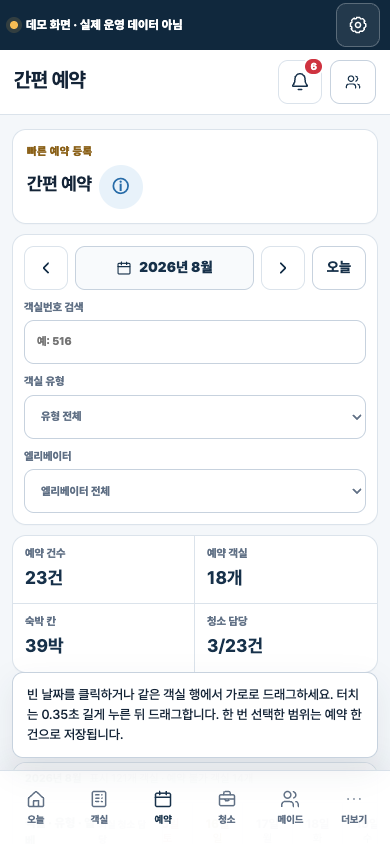
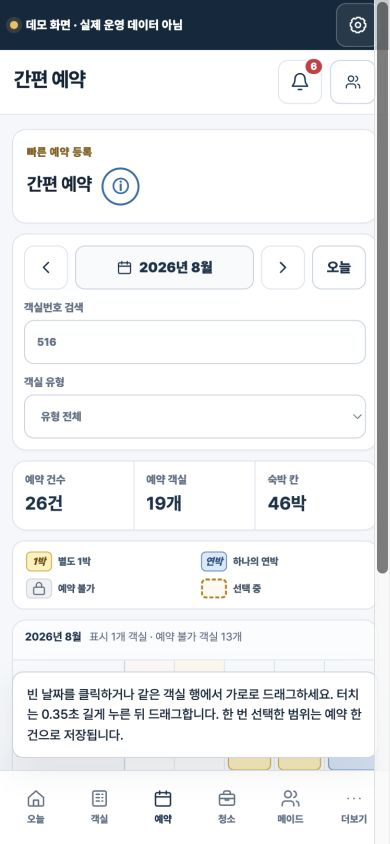
feat: 간편 예약 객실 열을 간소화하라

diff --git a/WIREFRAME/index.html b/WIREFRAME/index.html
@@ -1381,12 +1381,12 @@
     .quick-booking-hero p { margin:0; color:var(--muted); font-size:13px; }
     .quick-booking-boundary { flex:0 0 auto; max-width:330px; padding:10px 12px; border:1px solid #c9ddec; border-radius:10px; color:#375b7a; background:var(--blue-soft); font-size:12px; line-height:1.5; }
     .quick-booking-boundary strong { display:block; color:#244966; }
-    .quick-booking-toolbar { display:grid; grid-template-columns:auto minmax(180px,.8fr) minmax(170px,.6fr) minmax(170px,.6fr); gap:10px; align-items:end; padding:14px; }
+    .quick-booking-toolbar { display:grid; grid-template-columns:auto minmax(180px,.8fr) minmax(170px,.6fr); gap:10px; align-items:end; padding:14px; }
     .quick-month-tools { display:flex; align-items:center; gap:7px; }
     .quick-month-label { display:flex; align-items:center; justify-content:center; gap:7px; min-width:150px; min-height:44px; padding:8px 12px; border:1px solid var(--line-strong); border-radius:10px; background:var(--surface-soft); color:var(--navy); font-weight:850; white-space:nowrap; }
     .quick-toolbar-field { display:grid; min-width:0; gap:4px; color:var(--muted); font-size:11px; font-weight:800; }
     .quick-toolbar-field .input-control, .quick-toolbar-field .select-control { width:100%; }
-    .quick-booking-summary { display:grid; grid-template-columns:repeat(4,minmax(0,1fr)); overflow:hidden; }
+    .quick-booking-summary { display:grid; grid-template-columns:repeat(3,minmax(0,1fr)); overflow:hidden; }
     .quick-booking-summary > div { min-height:76px; padding:12px 15px; border-right:1px solid var(--line); }
     .quick-booking-summary > div:last-child { border-right:0; }
     .quick-booking-summary span { display:block; color:var(--muted); font-size:11px; font-weight:750; }
@@ -1407,7 +1407,7 @@
     .quick-grid-status strong { color:var(--navy); }
     .quick-grid-status .quick-status-spacer { flex:1; }
     .quick-grid-scroller { position:relative; max-width:100%; max-height:calc(100vh - 330px); min-height:430px; overflow:auto; overscroll-behavior:contain; scrollbar-gutter:stable; background:#fff; }
-    .quick-grid { --quick-room-col:260px; --quick-day-col:58px; width:max-content; min-width:100%; background:#fff; }
+    .quick-grid { --quick-room-col:200px; --quick-day-col:58px; width:max-content; min-width:100%; background:#fff; }
     .quick-grid-row { display:grid; grid-template-columns:var(--quick-room-col) repeat(var(--quick-days),var(--quick-day-col)); min-width:max-content; }
     .quick-grid-header { position:sticky; top:0; z-index:30; min-height:58px; }
     .quick-room-header, .quick-room-info { position:sticky; left:0; z-index:14; border-right:1px solid var(--line-strong); border-bottom:1px solid var(--line); background:#f8fafc; }
@@ -1419,15 +1419,18 @@
     .quick-day-header.today { box-shadow:inset 0 -3px 0 #c38a29; color:#7b5209; background:#fff9eb; }
     .quick-grid-data-row { min-height:58px; }
     .quick-grid-data-row:hover .quick-room-info, .quick-grid-data-row:hover .quick-date-cell:not(.is-reserved):not(.is-locked) { background:#fbfdff; }
-    .quick-room-info { display:grid; grid-template-columns:58px minmax(0,1fr); gap:8px; align-items:center; min-height:58px; padding:7px 10px; }
-    .quick-room-number { color:var(--navy); font-size:15px; font-weight:900; }
+    .quick-room-info { min-height:58px; padding:0; }
+    .quick-room-link { display:grid; grid-template-columns:54px minmax(0,1fr); gap:7px; align-items:center; width:100%; min-height:58px; padding:6px 9px; border:0; border-radius:0; color:inherit; background:transparent; font:inherit; text-align:left; touch-action:pan-y; cursor:pointer; }
+    .quick-room-link:hover { background:#edf5fb; }
+    .quick-room-link:focus-visible { position:relative; z-index:2; outline:3px solid #2477b7; outline-offset:-3px; }
+    .quick-room-number { color:#1d5f91; font-size:15px; font-weight:900; text-decoration:underline; text-decoration-thickness:1px; text-underline-offset:3px; }
     .quick-room-copy { min-width:0; }
     .quick-room-copy strong { display:block; overflow:hidden; color:#34485e; font-size:11px; line-height:1.3; text-overflow:ellipsis; white-space:nowrap; }
     .quick-room-copy span { display:block; margin-top:2px; overflow:hidden; color:var(--muted); font-size:10px; line-height:1.3; text-overflow:ellipsis; white-space:nowrap; }
-    .quick-room-cleaner { color:#2f6c58 !important; font-weight:800; }
-    .quick-room-cleaner.unassigned { color:#8a5c13 !important; }
+    .quick-room-block { color:#8a343a !important; font-weight:800; }
     .quick-room-info.row-locked { background:#f1f3f5; }
     .quick-room-info.row-locked .quick-room-number { color:#6c7784; }
+    .quick-room-info.row-locked .quick-room-link:hover { background:#e6eaee; }
     .quick-date-cell { position:relative; display:grid; place-items:center; min-width:var(--quick-day-col); min-height:58px; padding:0; overflow:visible; border:0; border-right:1px solid #e4e9ef; border-bottom:1px solid #e4e9ef; border-radius:0; color:#56687b; background:#fff; font-size:10px; font-weight:900; line-height:1.15; touch-action:pan-y pinch-zoom; user-select:none; -webkit-user-select:none; }
     .quick-date-cell[data-bookable="true"]:hover { background:#f2f7fb; box-shadow:inset 0 0 0 2px #abc8dd; }
     .quick-date-cell:focus-visible { z-index:12; outline:3px solid #2477b7; outline-offset:-3px; }
@@ -1455,7 +1458,7 @@
       .quick-month-tools { grid-column:1/-1; }
       .quick-booking-guide { align-items:flex-start; flex-direction:column; }
       .quick-booking-legend { justify-content:flex-start; }
-      .quick-grid { --quick-room-col:210px; --quick-day-col:56px; }
+      .quick-grid { --quick-room-col:170px; --quick-day-col:56px; }
     }
     @media (max-width:720px) {
       .quick-booking-page { gap:10px; }
@@ -1465,26 +1468,26 @@
       .quick-booking-toolbar { grid-template-columns:1fr; padding:11px; }
       .quick-month-tools { grid-column:auto; }
       .quick-month-label { min-width:0; flex:1; }
-      .quick-booking-summary { grid-template-columns:repeat(2,minmax(0,1fr)); }
-      .quick-booking-summary > div:nth-child(2) { border-right:0; }
-      .quick-booking-summary > div:nth-child(-n+2) { border-bottom:1px solid var(--line); }
+      .quick-booking-summary { grid-template-columns:repeat(3,minmax(0,1fr)); }
       .quick-booking-summary > div { min-height:68px; padding:10px 12px; }
       .quick-booking-guide-copy { min-width:0; }
       .quick-booking-legend { display:grid; grid-template-columns:repeat(2,minmax(0,1fr)); width:100%; }
       .quick-grid-status { align-items:flex-start; flex-wrap:wrap; }
       .quick-grid-status .quick-status-spacer { display:none; }
       .quick-grid-scroller { max-height:calc(100vh - 250px); min-height:480px; }
-      .quick-grid { --quick-room-col:168px; --quick-day-col:52px; }
-      .quick-room-info { grid-template-columns:50px minmax(0,1fr); gap:5px; padding:6px 7px; }
+      .quick-grid { --quick-room-col:132px; --quick-day-col:52px; }
+      .quick-room-link { grid-template-columns:46px minmax(0,1fr); gap:4px; padding:5px 6px; }
       .quick-room-number { font-size:14px; }
       .quick-room-copy strong, .quick-room-copy span { white-space:normal; }
       .quick-room-copy strong { display:-webkit-box; -webkit-box-orient:vertical; -webkit-line-clamp:2; }
-      .quick-room-cleaner { font-size:9px !important; line-height:1.25 !important; white-space:nowrap !important; }
+      .quick-room-block { font-size:9px !important; line-height:1.25 !important; }
       .quick-date-cell, .quick-grid-data-row { min-height:56px; }
     }
     @media (max-width:420px) {
-      .quick-grid { --quick-room-col:150px; --quick-day-col:50px; }
-      .quick-room-info { grid-template-columns:45px minmax(0,1fr); }
+      .quick-grid { --quick-room-col:112px; --quick-day-col:50px; }
+      .quick-room-link { grid-template-columns:40px minmax(0,1fr); gap:3px; padding:4px; }
+      .quick-room-number { font-size:13px; }
+      .quick-room-copy strong { font-size:10px; }
       .quick-booking-hero h2 { font-size:1.12rem; }
       .quick-legend-item { font-size:10px; }
       .bottom-nav button span { font-size:10px; }
@@ -1905,7 +1908,7 @@
           scenario:Number(scenario), role:cfg.role, currentMaidId:'m1', adminView:cfg.role === 'admin' ? cfg.view : 'today', maidView:cfg.role === 'maid' ? cfg.view : 'my',
           detail:null, returnContext:null, demoOpen:false, time:'10:32', network:'online', listMode:'data', loggedIn:true, loginMode:'normal',
           selectedDate:'2026-08-15', calendarMonth:'2026-08', calendarContext:null, reservationWeekStart:'2026-08-10', reservationWeekRoom:null, roomFilter:'all', roomTypeFilter:'all', roomSearch:'', selectedDrafts:[], reservationSaved:false,
-          quickReservationMonth:'2026-08', quickReservationType:'all', quickReservationElevator:'all', quickReservationSearch:'', quickGridScrollLeft:720, quickGridScrollTop:0, quickLastCreated:null,
+          quickReservationMonth:'2026-08', quickReservationType:'all', quickReservationSearch:'', quickGridScrollLeft:700, quickGridScrollTop:0, quickLastCreated:null,
           reservationSequence:INITIAL_RESERVATIONS.length, reservations:initialReservationState(),
           publications:{}, cancelRequests:{},
           todaySections:{schedule:true,assignment:true,drafts:false,inspection:false,pay:false}, cleaningTab:'assignment', assignmentTypeFilter:'all', adminMaidTab:'workforce', adminPayWeek:'2026-08-03', workHistoryWeek:'2026-08-10', workHistoryMaid:'all',
@@ -2184,7 +2187,7 @@
           scenario:Number(state.scenario),role:state.role,currentMaidId:signedInMaidId(),view:currentView(),
           detail:state.detail?{type:String(state.detail.type),id:String(state.detail.id),...(state.detail.mode?{mode:String(state.detail.mode)}:{})}:null,
           date:state.selectedDate,filter:state.roomFilter,typeFilter:state.roomTypeFilter,q:state.roomSearch,
-          quickMonth:state.quickReservationMonth,quickType:state.quickReservationType,quickElevator:state.quickReservationElevator,quickQ:state.quickReservationSearch,quickGridLeft:state.quickGridScrollLeft,quickGridTop:state.quickGridScrollTop,
+          quickMonth:state.quickReservationMonth,quickType:state.quickReservationType,quickQ:state.quickReservationSearch,quickGridLeft:state.quickGridScrollLeft,quickGridTop:state.quickGridScrollTop,
           reservationWeekStart:state.reservationWeekStart,reservationWeekRoom:state.reservationWeekRoom,
           scrollY:Math.max(0,Math.round(Number(scrollY)||0)),loggedIn:state.loggedIn!==false,
           adminMaidTab:state.adminMaidTab,workHistoryWeek:state.workHistoryWeek,workHistoryMaid:state.workHistoryMaid,calendarContext:state.calendarContext,calendarMonth:state.calendarMonth,cleaningTab:state.cleaningTab,assignmentTypeFilter:state.assignmentTypeFilter,adminPayWeek:state.adminPayWeek,
@@ -2197,7 +2200,6 @@
         if(route.assignmentTypeFilter&&route.assignmentTypeFilter!=='all')params.set('assignmentType',route.assignmentTypeFilter);
         if(route.quickMonth&&route.quickMonth!=='2026-08')params.set('bookingMonth',route.quickMonth);
         if(route.quickType&&route.quickType!=='all')params.set('bookingType',route.quickType);
-        if(route.quickElevator&&route.quickElevator!=='all')params.set('bookingElevator',route.quickElevator);
         if(route.quickQ)params.set('bookingQ',route.quickQ);
         if(route.detail){params.set('detail',`${route.detail.type}:${route.detail.id}`);if(route.detail.mode)params.set('mode',route.detail.mode);}
         return `${location.pathname}${location.search}#${params.toString()}`;
@@ -2298,7 +2300,6 @@
         if(/^\d{0,6}$/.test(route.q||''))state.roomSearch=route.q||'';
         if(/^\d{4}-(0[1-9]|1[0-2])$/.test(route.quickMonth||''))state.quickReservationMonth=route.quickMonth;
         if(['all',...Object.keys(ROOM_TYPES)].includes(route.quickType))state.quickReservationType=route.quickType;
-        if(['all','A','B','C','none'].includes(route.quickElevator))state.quickReservationElevator=route.quickElevator;
         if(/^\d{0,6}$/.test(route.quickQ||''))state.quickReservationSearch=route.quickQ||'';
         state.quickGridScrollLeft=Math.max(0,Number(route.quickGridLeft)||0);state.quickGridScrollTop=Math.max(0,Number(route.quickGridTop)||0);
         if(/^\d{4}-\d{2}-\d{2}$/.test(route.reservationWeekStart||''))state.reservationWeekStart=weekStartIso(route.reservationWeekStart);
@@ -3487,8 +3488,8 @@
         return reservation.status==='active'&&reservation.checkInAt<next&&reservation.checkOutAt>start;
       }
       function quickFilteredRooms() {
-        const query=state.quickReservationSearch.trim(),elevator=state.quickReservationElevator;
-        return ROOMS.filter(room=>!query||room.no.includes(query)).filter(room=>state.quickReservationType==='all'||room.type===state.quickReservationType).filter(room=>elevator==='all'||(elevator==='none'?!room.elevator:room.elevator===elevator));
+        const query=state.quickReservationSearch.trim();
+        return ROOMS.filter(room=>!query||room.no.includes(query)).filter(room=>state.quickReservationType==='all'||room.type===state.quickReservationType);
       }
       function quickRoomBlockReason(room) {
         if(!room)return '객실 정보 없음';
@@ -3514,13 +3515,6 @@
         if(!maidId)return {name:'청소 미배정',status:'미배정',maidId:null,assigned:false};
         const status=record.status==='notified'?'통보 완료':record.status==='draft'?'저장 전':record.status==='cancelled'?'취소됨':'배정됨';
         return {name:maidName(maidId),status,maidId,assigned:record.status!=='cancelled'};
-      }
-      function quickRoomCleaner(roomNo,month=state.quickReservationMonth) {
-        const reservations=activeReservationsFor(state,roomNo).filter(item=>reservationInMonth(item,month));
-        const assigned=reservations.map(item=>cleaningAssignmentForReservation(item)).find(item=>item.assigned);
-        if(assigned)return {label:`청소 ${assigned.name} · ${assigned.status}`,assigned:true};
-        if(reservations.length)return {label:'청소 미배정',assigned:false};
-        return {label:'퇴실 청소 일정 없음',assigned:null};
       }
       function quickBookingTimes(firstNight,lastNight) {
         const ordered=[firstNight,lastNight].sort();
@@ -3722,21 +3716,21 @@
         return {reservation,impact,reason,cleaningEffect};
       }
       function quickCellMarkup(room,iso,rowIndex,dayIndex) {
-        const reservation=reservationForNight(room.no,iso),rowReason=quickRoomBlockReason(room),occupiedReason=quickOccupiedDateBlockReason(room,iso),defaultRange=quickBookingTimes(iso,iso),timeConflict=!reservation?reservationOverlaps(room.no,defaultRange.checkInAt,defaultRange.checkOutAt):null,cellReason=rowReason||occupiedReason||(timeConflict?`기존 예약 시각 겹침 · ${quickRangeLabel(timeConflict)}`:''),type=ROOM_TYPES[room.type],elevator=elevatorLabel(room),cleaner=reservation?cleaningAssignmentForReservation(reservation):null,dayOffset=reservation?Math.round((dateObject(iso)-dateObject(reservation.checkInAt.slice(0,10)))/86400000):0,nights=reservationNights(reservation),start=reservation&&dayOffset===0,end=reservation&&dayOffset===nights-1;
+        const reservation=reservationForNight(room.no,iso),rowReason=quickRoomBlockReason(room),occupiedReason=quickOccupiedDateBlockReason(room,iso),defaultRange=quickBookingTimes(iso,iso),timeConflict=!reservation?reservationOverlaps(room.no,defaultRange.checkInAt,defaultRange.checkOutAt):null,cellReason=rowReason||occupiedReason||(timeConflict?`기존 예약 시각 겹침 · ${quickRangeLabel(timeConflict)}`:''),type=ROOM_TYPES[room.type],elevator=elevatorLabel(room),focusDate=state.selectedDate.slice(0,7)===state.quickReservationMonth?state.selectedDate:`${state.quickReservationMonth}-01`,dayOffset=reservation?Math.round((dateObject(iso)-dateObject(reservation.checkInAt.slice(0,10)))/86400000):0,nights=reservationNights(reservation),start=reservation&&dayOffset===0,end=reservation&&dayOffset===nights-1;
         if(reservation){
-          const label=nights===1?'1박':start?`연박 ${nights}박`:'',assignment=cleaner.assigned?`${cleaner.name} · ${cleaner.status}`:'청소 미배정',aria=`${room.no}호, ${type.name}, ${elevator}, ${quickDateLabel(iso)}, ${nights===1?'1박 예약':`연박 ${nights}박`}, ${quickRangeLabel(reservation)}, ${assignment}`;
-          return `<button class="quick-date-cell is-reserved ${nights===1?'is-single':'is-multi'} ${start?'is-start':''} ${end?'is-end':''}" type="button" role="gridcell" tabindex="${rowIndex===0&&dayIndex===0?'0':'-1'}" data-action="quick-reservation-edit" data-id="${esc(reservation.id)}" data-room="${room.no}" data-date="${iso}" aria-label="${esc(aria)}" title="${esc(`${quickRangeLabel(reservation)} · ${assignment}`)}"><span class="quick-cell-label">${esc(label)}</span></button>`;
+          const label=nights===1?'1박':start?`연박 ${nights}박`:'',aria=`${room.no}호, ${type.name}, ${elevator}, ${quickDateLabel(iso)}, ${nights===1?'1박 예약':`연박 ${nights}박`}, ${quickRangeLabel(reservation)}`;
+          return `<button class="quick-date-cell is-reserved ${nights===1?'is-single':'is-multi'} ${start?'is-start':''} ${end?'is-end':''}" type="button" role="gridcell" tabindex="${rowIndex===0&&iso===focusDate?'0':'-1'}" data-action="quick-reservation-edit" data-id="${esc(reservation.id)}" data-room="${room.no}" data-date="${iso}" aria-label="${esc(aria)}" title="${esc(quickRangeLabel(reservation))}"><span class="quick-cell-label">${esc(label)}</span></button>`;
         }
-        if(cellReason){const aria=`${room.no}호, ${type.name}, ${elevator}, ${quickDateLabel(iso)}, 예약 불가, ${cellReason}`;return `<button class="quick-date-cell is-locked" type="button" role="gridcell" tabindex="${rowIndex===0&&dayIndex===0?'0':'-1'}" data-room="${room.no}" data-date="${iso}" aria-disabled="true" aria-label="${esc(aria)}" title="${esc(cellReason)}">${icon('lock','icon-sm')}</button>`;}
+        if(cellReason){const aria=`${room.no}호, ${type.name}, ${elevator}, ${quickDateLabel(iso)}, 예약 불가, ${cellReason}`;return `<button class="quick-date-cell is-locked" type="button" role="gridcell" tabindex="${rowIndex===0&&iso===focusDate?'0':'-1'}" data-room="${room.no}" data-date="${iso}" aria-disabled="true" aria-label="${esc(aria)}" title="${esc(cellReason)}">${icon('lock','icon-sm')}</button>`;}
         const aria=`${room.no}호, ${type.name}, ${elevator}, ${quickDateLabel(iso)}, 예약 가능. 마우스는 클릭 또는 드래그, 터치는 길게 누른 뒤 가로 드래그`;
-        return `<button class="quick-date-cell" type="button" role="gridcell" tabindex="${rowIndex===0&&dayIndex===0?'0':'-1'}" data-quick-cell="true" data-bookable="true" data-room="${room.no}" data-date="${iso}" aria-label="${esc(aria)}"></button>`;
+        return `<button class="quick-date-cell" type="button" role="gridcell" tabindex="${rowIndex===0&&iso===focusDate?'0':'-1'}" data-quick-cell="true" data-bookable="true" data-room="${room.no}" data-date="${iso}" aria-label="${esc(aria)}"></button>`;
       }
       function renderQuickReservation() {
-        const dates=quickMonthDates(),rooms=quickFilteredRooms(),monthReservations=activeReservationsFor(state).filter(item=>reservationInMonth(item)),bookedRooms=new Set(monthReservations.map(item=>item.room)),bookedNights=monthReservations.reduce((total,reservation)=>total+dates.filter(date=>reservationContainsNight(reservation,date)).length,0),assignedCount=monthReservations.filter(reservation=>cleaningAssignmentForReservation(reservation).assigned).length,blockedRooms=ROOMS.filter(room=>quickRoomBlockReason(room)).length;
+        const dates=quickMonthDates(),rooms=quickFilteredRooms(),monthReservations=activeReservationsFor(state).filter(item=>reservationInMonth(item)),bookedRooms=new Set(monthReservations.map(item=>item.room)),bookedNights=monthReservations.reduce((total,reservation)=>total+dates.filter(date=>reservationContainsNight(reservation,date)).length,0),blockedRooms=ROOMS.filter(room=>quickRoomBlockReason(room)).length;
         const headers=dates.map(iso=>{const value=dateObject(iso),weekend=[0,6].includes(value.getDay()),today=iso==='2026-08-16';return `<div class="quick-day-header ${weekend?'weekend':''} ${today?'today':''}" role="columnheader" aria-label="${esc(quickDateLabel(iso))}"><strong>${value.getDate()}일</strong><span>${['일','월','화','수','목','금','토'][value.getDay()]}</span></div>`;}).join('');
-        const rows=rooms.map((room,rowIndex)=>{const type=ROOM_TYPES[room.type],cleaner=quickRoomCleaner(room.no),blocked=quickRoomBlockReason(room);return `<div class="quick-grid-row quick-grid-data-row" role="row" aria-rowindex="${rowIndex+2}" data-quick-row="${room.no}"><div class="quick-room-info ${blocked?'row-locked':''}" role="rowheader"><span class="quick-room-number">${room.no}호</span><span class="quick-room-copy"><strong>${esc(type.name)} · ${esc(room.elevator||'미기재')}</strong><span class="quick-room-cleaner ${cleaner.assigned===false?'unassigned':''}">${esc(blocked||cleaner.label)}</span></span></div>${dates.map((iso,dayIndex)=>quickCellMarkup(room,iso,rowIndex,dayIndex)).join('')}</div>`;}).join('');
-        const grid=rooms.length?`<div class="quick-grid" role="grid" aria-label="${esc(quickMonthLabel())} 객실별 간편 예약" aria-rowcount="${rooms.length+1}" aria-colcount="${dates.length+1}" style="--quick-days:${dates.length}"><div class="quick-grid-row quick-grid-header" role="row"><div class="quick-room-header" role="columnheader">객실 · 유형 · 엘베<span>퇴실 청소 담당</span></div>${headers}</div>${rows}</div>`:`<div class="quick-empty-state"><div><h3>조건에 맞는 객실이 없습니다</h3><p>검색어 또는 유형·엘리베이터 필터를 바꿔 주세요.</p></div></div>`;
-        return renderCoach()+renderNetworkNotice()+`<div class="quick-booking-page"><section class="card quick-booking-hero"><div class="quick-booking-hero-copy"><span class="quick-booking-kicker">빠른 예약 입력</span><h2>날짜 범위를 한 번에 드래그해 예약을 접수하세요</h2><p>한 번의 드래그는 예약 한 건입니다. 바로 옆을 다시 드래그해도 합쳐지지 않아 1박·1박·연박을 그대로 구분합니다.</p></div><div class="quick-booking-boundary"><strong>데모 와이어프레임 · 실제 데이터 아님</strong>외부 OTA/PMS 예약 원본은 변경하지 않습니다.</div></section><section class="card quick-booking-toolbar" aria-label="간편 예약 필터"><div class="quick-month-tools"><button class="icon-btn" type="button" data-action="quick-month-shift" data-offset="-1" aria-label="이전 달">${icon('chevronLeft')}</button><div class="quick-month-label">${icon('calendar','icon-sm')}${esc(quickMonthLabel())}</div><button class="icon-btn" type="button" data-action="quick-month-shift" data-offset="1" aria-label="다음 달">${icon('chevronRight')}</button><button class="btn btn-outline" type="button" data-action="quick-month-today">오늘</button></div><label class="quick-toolbar-field">객실번호 검색<input class="input-control" type="search" inputmode="numeric" data-control="quick-reservation-search" value="${esc(state.quickReservationSearch)}" placeholder="예: 516" autocomplete="off"></label><label class="quick-toolbar-field">객실 유형<select class="select-control" data-control="quick-reservation-type"><option value="all">유형 전체</option>${Object.entries(ROOM_TYPES).map(([id,type])=>`<option value="${id}" ${state.quickReservationType===id?'selected':''}>${esc(type.name)}</option>`).join('')}</select></label><label class="quick-toolbar-field">엘리베이터<select class="select-control" data-control="quick-reservation-elevator"><option value="all">엘리베이터 전체</option>${['A','B','C'].map(value=>`<option value="${value}" ${state.quickReservationElevator===value?'selected':''}>${value} 엘리베이터</option>`).join('')}<option value="none" ${state.quickReservationElevator==='none'?'selected':''}>미기재</option></select></label></section><section class="card quick-booking-summary" aria-label="${esc(quickMonthLabel())} 예약 요약"><div><span>예약 건수</span><strong>${monthReservations.length}건</strong><small>각 드래그 1건</small></div><div><span>예약 객실</span><strong>${bookedRooms.size}개</strong><small>전체 ${ROOMS.length}개</small></div><div><span>숙박 칸</span><strong>${bookedNights}박</strong><small>선택한 달 기준</small></div><div><span>청소 담당</span><strong>${assignedCount}/${monthReservations.length}건</strong><small>나머지는 미배정</small></div></section><div class="quick-booking-guide"><div class="quick-booking-guide-copy"><strong>마우스: 클릭·드래그 / 터치: 0.35초 길게 누른 뒤 같은 행에서 가로 드래그</strong>바로 가로 스와이프하면 날짜표만 이동합니다. 세로로 움직이면 선택을 취소하고 화면만 스크롤합니다. 손을 뗄 때 등록되며 10초 동안 실행 취소할 수 있습니다.</div><div class="quick-booking-legend" aria-label="예약 상태 범례"><span class="quick-legend-item"><i class="quick-legend-swatch single">1박</i>별도 1박</span><span class="quick-legend-item"><i class="quick-legend-swatch multi">연박</i>하나의 연박</span><span class="quick-legend-item"><i class="quick-legend-swatch locked">${icon('lock','icon-sm')}</i>예약 불가</span><span class="quick-legend-item"><i class="quick-legend-swatch preview"></i>선택 중</span></div></div><section class="card quick-grid-shell"><div class="quick-grid-status"><strong>${esc(quickMonthLabel())}</strong><span>표시 ${rooms.length}개 객실 · 예약 불가 객실 ${blockedRooms}개</span><span class="quick-status-spacer"></span><span>객실정보 열·날짜 행 고정 · 날짜 영역만 가로 스크롤</span></div><div id="quick-grid-scroller" class="quick-grid-scroller" tabindex="0" aria-label="객실 예약표 스크롤 영역">${grid}</div></section></div>`;
+        const rows=rooms.map((room,rowIndex)=>{const type=ROOM_TYPES[room.type],blocked=quickRoomBlockReason(room);return `<div class="quick-grid-row quick-grid-data-row" role="row" aria-rowindex="${rowIndex+2}" data-quick-row="${room.no}"><div class="quick-room-info ${blocked?'row-locked':''}" role="rowheader"><button class="quick-room-link" type="button" tabindex="${rowIndex===0?'0':'-1'}" data-action="room-detail" data-id="${room.no}" aria-label="${room.no}호 객실 상세 열기"><span class="quick-room-number">${room.no}호</span><span class="quick-room-copy"><strong>${esc(type.name)} · ${esc(room.elevator||'미기재')}</strong>${blocked?`<span class="quick-room-block">${esc(blocked)}</span>`:''}</span></button></div>${dates.map((iso,dayIndex)=>quickCellMarkup(room,iso,rowIndex,dayIndex)).join('')}</div>`;}).join('');
+        const grid=rooms.length?`<div class="quick-grid" role="grid" aria-label="${esc(quickMonthLabel())} 객실별 간편 예약" aria-rowcount="${rooms.length+1}" aria-colcount="${dates.length+1}" style="--quick-days:${dates.length}"><div class="quick-grid-row quick-grid-header" role="row"><div class="quick-room-header" role="columnheader">객실 · 유형 · 엘베</div>${headers}</div>${rows}</div>`:`<div class="quick-empty-state"><div><h3>조건에 맞는 객실이 없습니다</h3><p>검색어 또는 객실 유형 필터를 바꿔 주세요.</p></div></div>`;
+        return renderCoach()+renderNetworkNotice()+`<div class="quick-booking-page"><section class="card quick-booking-hero"><div class="quick-booking-hero-copy"><span class="quick-booking-kicker">빠른 예약 입력</span><h2>날짜 범위를 한 번에 드래그해 예약을 접수하세요</h2><p>한 번의 드래그는 예약 한 건입니다. 바로 옆을 다시 드래그해도 합쳐지지 않아 1박·1박·연박을 그대로 구분합니다.</p></div><div class="quick-booking-boundary"><strong>데모 와이어프레임 · 실제 데이터 아님</strong>외부 OTA/PMS 예약 원본은 변경하지 않습니다.</div></section><section class="card quick-booking-toolbar" aria-label="간편 예약 필터"><div class="quick-month-tools"><button class="icon-btn" type="button" data-action="quick-month-shift" data-offset="-1" aria-label="이전 달">${icon('chevronLeft')}</button><div class="quick-month-label">${icon('calendar','icon-sm')}${esc(quickMonthLabel())}</div><button class="icon-btn" type="button" data-action="quick-month-shift" data-offset="1" aria-label="다음 달">${icon('chevronRight')}</button><button class="btn btn-outline" type="button" data-action="quick-month-today">오늘</button></div><label class="quick-toolbar-field">객실번호 검색<input class="input-control" type="search" inputmode="numeric" data-control="quick-reservation-search" value="${esc(state.quickReservationSearch)}" placeholder="예: 516" autocomplete="off"></label><label class="quick-toolbar-field">객실 유형<select class="select-control" data-control="quick-reservation-type"><option value="all">유형 전체</option>${Object.entries(ROOM_TYPES).map(([id,type])=>`<option value="${id}" ${state.quickReservationType===id?'selected':''}>${esc(type.name)}</option>`).join('')}</select></label></section><section class="card quick-booking-summary" aria-label="${esc(quickMonthLabel())} 예약 요약"><div><span>예약 건수</span><strong>${monthReservations.length}건</strong><small>각 드래그 1건</small></div><div><span>예약 객실</span><strong>${bookedRooms.size}개</strong><small>전체 ${ROOMS.length}개</small></div><div><span>숙박 칸</span><strong>${bookedNights}박</strong><small>선택한 달 기준</small></div></section><div class="quick-booking-guide"><div class="quick-booking-guide-copy"><strong>마우스: 클릭·드래그 / 터치: 0.35초 길게 누른 뒤 같은 행에서 가로 드래그</strong>바로 가로 스와이프하면 날짜표만 이동합니다. 세로로 움직이면 선택을 취소하고 화면만 스크롤합니다. 손을 뗄 때 등록되며 10초 동안 실행 취소할 수 있습니다.</div><div class="quick-booking-legend" aria-label="예약 상태 범례"><span class="quick-legend-item"><i class="quick-legend-swatch single">1박</i>별도 1박</span><span class="quick-legend-item"><i class="quick-legend-swatch multi">연박</i>하나의 연박</span><span class="quick-legend-item"><i class="quick-legend-swatch locked">${icon('lock','icon-sm')}</i>예약 불가</span><span class="quick-legend-item"><i class="quick-legend-swatch preview"></i>선택 중</span></div></div><section class="card quick-grid-shell"><div class="quick-grid-status"><strong>${esc(quickMonthLabel())}</strong><span>표시 ${rooms.length}개 객실 · 예약 불가 객실 ${blockedRooms}개</span><span class="quick-status-spacer"></span><span>객실정보 열·날짜 행 고정 · 날짜 영역만 가로 스크롤</span></div><div id="quick-grid-scroller" class="quick-grid-scroller" tabindex="0" aria-label="객실 예약표 스크롤 영역">${grid}</div></section></div>`;
       }
       function rememberQuickGridViewport() {
         const scroller=document.getElementById('quick-grid-scroller');if(!scroller)return;
@@ -3808,6 +3802,16 @@
       },true);
       document.addEventListener('contextmenu',event=>{if(event.target.closest?.('.quick-date-cell'))event.preventDefault();});
       document.addEventListener('scroll',event=>{if(event.target?.id==='quick-grid-scroller'){state.quickGridScrollLeft=event.target.scrollLeft;state.quickGridScrollTop=event.target.scrollTop;}},true);
+      document.addEventListener('focusin',event=>{
+        const roomLink=event.target.closest?.('.quick-room-link[data-id]');if(!roomLink||state.role!=='admin'||state.adminView!=='quickReservation'||state.detail)return;
+        document.querySelectorAll('.quick-room-link[data-id]').forEach(link=>{link.tabIndex=link===roomLink?0:-1;});
+      });
+      document.addEventListener('keydown',event=>{
+        const roomLink=event.target.closest?.('.quick-room-link[data-id]');if(!roomLink||document.querySelector('.modal')||state.role!=='admin'||state.adminView!=='quickReservation')return;
+        if(!['ArrowUp','ArrowDown','Home','End'].includes(event.key))return;
+        event.preventDefault();const links=[...document.querySelectorAll('.quick-room-link[data-id]')],index=links.indexOf(roomLink),nextIndex=event.key==='Home'?0:event.key==='End'?links.length-1:Math.max(0,Math.min(links.length-1,index+(event.key==='ArrowUp'?-1:1))),target=links[nextIndex];
+        if(!target)return;roomLink.tabIndex=-1;target.tabIndex=0;target.focus({preventScroll:false});
+      });
       document.addEventListener('keydown',event=>{
         const cell=event.target.closest?.('.quick-date-cell[data-room][data-date]');if(!cell||document.querySelector('.modal')||state.role!=='admin'||state.adminView!=='quickReservation')return;
         if(event.key==='Escape'){event.preventDefault();quickKeyboardSelection=null;clearQuickSelectionPreview();document.getElementById('assertive-live').textContent='예약 날짜 선택을 취소했습니다.';return;}
@@ -5388,7 +5392,7 @@
           if(state.role!=='admin')return;rememberQuickGridViewport();state.quickReservationMonth=shiftQuickMonth(state.quickReservationMonth,Number(el.dataset.offset)||0);state.quickGridScrollLeft=0;state.quickGridScrollTop=0;render();requestAnimationFrame(()=>document.querySelector(`[data-action="quick-month-shift"][data-offset="${el.dataset.offset}"]`)?.focus());return;
         }
         if(a==='quick-month-today'){
-          if(state.role!=='admin')return;state.quickReservationMonth='2026-08';state.quickGridScrollLeft=720;state.quickGridScrollTop=0;render();requestAnimationFrame(()=>document.querySelector('[data-action="quick-month-today"]')?.focus());return;
+          if(state.role!=='admin')return;state.quickReservationMonth='2026-08';state.quickGridScrollLeft=700;state.quickGridScrollTop=0;render();requestAnimationFrame(()=>document.querySelector('[data-action="quick-month-today"]')?.focus());return;
         }
         if(a==='quick-reservation-edit'){
           if(state.role!=='admin'){toast('간편 예약 상세는 관리자만 볼 수 있습니다.','error');return;}
@@ -5423,7 +5427,7 @@
         }
         if(a==='back'){maskPin();backFromDetail();return;}
         if(a==='close-modal'||a==='backdrop-close'||a==='calendar-close'||a==='calendar-backdrop'){pendingPin=null;pendingTemplateChange=null;pendingDraftPublish=null;dismissModal();return;}
-        if(a==='room-detail'){maskPin();openDetail('room',id||'350',el);return;}
+        if(a==='room-detail'){maskPin();if(state.adminView==='quickReservation'&&!state.detail)rememberQuickGridViewport();openDetail('room',id||'350',el);return;}
         if(a==='cleaning-detail'){maskPin();openDetail('cleaning',id||'639',el);return;}
         if(a==='maid-detail'){maskPin();openDetail('maid',id||'m1',el);return;}
         if(a==='resolve-conflict-v2'){if(!adminCanMutate()){toast('관리자 최신 상태에서만 충돌을 해결할 수 있습니다.','error');return;}if(activeRecleanAttempt('332')){toast('332호 본인 무급 재청소가 끝난 뒤 충돌 재계획을 진행할 수 있습니다.','error');return;}openConflictResolutionV2(el);return;}
@@ -6019,7 +6023,7 @@
       });
 
       document.addEventListener('change',e=>{
-        const c=e.target.dataset.control;if(!c||!['role','maid-account','scenario','room-filter','room-type-filter','quick-reservation-type','quick-reservation-elevator','maid-pay-filter','work-history-maid','task-check','task-photo-file','task-candle','room-issue-type','room-issue-files','bomb-room-files','complaint-type','conflict-step-v2','maid-deactivation-gate','assignment-maid','reservation-cancel-reason'].includes(c))return;
+        const c=e.target.dataset.control;if(!c||!['role','maid-account','scenario','room-filter','room-type-filter','quick-reservation-type','maid-pay-filter','work-history-maid','task-check','task-photo-file','task-candle','room-issue-type','room-issue-files','bomb-room-files','complaint-type','conflict-step-v2','maid-deactivation-gate','assignment-maid','reservation-cancel-reason'].includes(c))return;
         e.stopImmediatePropagation();
         if(c==='reservation-cancel-reason'){updateReservationCancelReasonControls(true);return;}
         if(c==='role'){maskPin();closeModal();state.role=e.target.value;state.detail=null;render();requestAnimationFrame(()=>document.querySelector('[data-control="role"]')?.focus());return;}
@@ -6028,7 +6032,6 @@
         if(c==='room-filter'){state.roomFilter=e.target.value;render();requestAnimationFrame(()=>document.querySelector('[data-control="room-filter"]')?.focus());return;}
         if(c==='room-type-filter'){state.roomTypeFilter=e.target.value;render();requestAnimationFrame(()=>document.querySelector('[data-control="room-type-filter"]')?.focus());return;}
         if(c==='quick-reservation-type'){rememberQuickGridViewport();state.quickReservationType=e.target.value;state.quickGridScrollTop=0;render();restoreQuickGridViewport('[data-control="quick-reservation-type"]');return;}
-        if(c==='quick-reservation-elevator'){rememberQuickGridViewport();state.quickReservationElevator=e.target.value;state.quickGridScrollTop=0;render();restoreQuickGridViewport('[data-control="quick-reservation-elevator"]');return;}
         if(c==='maid-pay-filter'){state.maidPayFilter=e.target.value;state.maidPaySelectedWeek=null;const visibleIds={all:['2026-08-10','2026-08-03','2026-07-27','2026-07-20','2026-07-13','2026-07-06'],current:['2026-08-10'],last:['2026-08-03'],older:['2026-07-27','2026-07-20','2026-07-13','2026-07-06']}[state.maidPayFilter]||[];if(!visibleIds.includes(state.maidPayOpenWeek))state.maidPayOpenWeek=visibleIds[0]||null;render();requestAnimationFrame(()=>document.querySelector('[data-control="maid-pay-filter"]')?.focus());return;}
         if(c==='work-history-maid'){state.workHistoryMaid=e.target.value;render();requestAnimationFrame(()=>document.querySelector('[data-control="work-history-maid"]')?.focus());return;}
         if(c==='task-check'){const no=e.target.dataset.room,item=e.target.value;if(!maidCanEditCleaning(no)){render();toast('본인 담당 청소 중 작업의 체크만 변경할 수 있습니다.','error');return;}taskState(no).checklist[item]=e.target.checked;render();requestAnimationFrame(()=>document.querySelector(`[data-control="task-check"][data-room="${no}"][value="${item}"]`)?.focus());return;}
@@ -6257,7 +6260,6 @@
         if(/^\d{0,6}$/.test(params.get('q')||''))state.roomSearch=params.get('q')||'';
         if(/^\d{4}-(0[1-9]|1[0-2])$/.test(params.get('bookingMonth')||''))state.quickReservationMonth=params.get('bookingMonth');
         if(['all',...Object.keys(ROOM_TYPES)].includes(params.get('bookingType')))state.quickReservationType=params.get('bookingType');
-        if(['all','A','B','C','none'].includes(params.get('bookingElevator')))state.quickReservationElevator=params.get('bookingElevator');
         if(/^\d{0,6}$/.test(params.get('bookingQ')||''))state.quickReservationSearch=params.get('bookingQ')||'';
         const detailValue=params.get('detail');
         if(detailValue){state.detail=null;const separator=detailValue.indexOf(':'),type=separator>0?detailValue.slice(0,separator):'',id=separator>0?detailValue.slice(separator+1):'';if(detailAllowedForRole(type,state.role)&&id)state.detail={type,id,...(params.get('mode')?{mode:params.get('mode')}:{})};}

diff --git a/WIREFRAME/QA.md b/WIREFRAME/QA.md
@@ -72,7 +72,7 @@
 | 타입 집계 | 통과 | 스탠다드 22, 프리미어 51, 파셜 오션뷰 13, 패밀리 투룸 35개로 `8월` 시트와 일치 |
 | 정본 청소요금 | 통과(대표 화면) | 553호 스탠다드 16,000원 표시와 프리미어 변경 뒤 20,000원 표시를 실제 확인. 파셜 오션뷰·패밀리 투룸과 전체 원장 일치는 정적 계약 범위 |
 | 건물 지도 보완 | 통과(정적·브라우저) | 시트 미기재 11실을 `139·449·553호=C`, `358·359·458·461·559·628·629·762호=B`로 보완하고 목록 카드에서 11실을 모두 대조했다. 지도상 15번과 43번 사이의 끊긴 구간은 연결 동선으로 사용하지 않음 |
-| 엘리베이터 집계 | 통과(정적·브라우저) | 전체 121실이 A 33, B 29, C 59, 미기재 0개이며 호수 끝자리 지도 구역과 일치. 간편 예약 `미기재` 필터 결과도 0실임을 확인. 762호는 B 엘리베이터가 확정됐고 `현재 투숙 상태 확인 필요` dataIssue만 유지 |
+| 엘리베이터 집계 | 통과(정적·브라우저) | 전체 121실이 A 33, B 29, C 59, 미기재 0개이며 호수 끝자리 지도 구역과 일치. 간편 예약 객실 행에서도 보완된 엘리베이터 위치를 확인했다. 762호는 B 엘리베이터가 확정됐고 `현재 투숙 상태 확인 필요` dataIssue만 유지 |
 | 투숙/공실 단순화 | 통과(대표 화면) | 553호는 별도 장기투숙 패널 없이 `투숙 중`과 `지금 체크아웃`, `투숙 중 청소 요청`만 표시했다. 체크아웃 뒤에는 `공실`만 표시함 |
 | 객실 정보 수정 | 통과(대표 화면) | 관리자 목록의 553호 초기값 C와 762호 초기값 B를 확인했다. 762호 수정 폼은 B를 미리 선택하고 객실번호 읽기 전용·타입·엘리베이터 편집·새 작업부터 적용 안내를 유지함 |
 | 762호 dataIssue 해제 | 통과 | 762호 수정 폼에서 현재 투숙 상태를 비워 둔 채 확정하면 상태 선택으로 초점이 이동하며 보류를 유지했다. 공실을 선택해 확정하면 B 엘리베이터는 유지되고 `정보 확인 필요`만 해제되어 `고객 배정 가능` 흐름으로 전환됨 |
@@ -401,29 +401,30 @@
 
 ## 추가 검증 · 간편 예약 원장과 터치 오입력 방지
 
-> 2026-08-16~17 로컬 HTTP에서 인앱 브라우저와 설치된 Chrome의 390px 터치 에뮬레이션으로 확인했다. 객실·예약·담당자·청소 상태는 기능 확인용 데모이며 실제 OTA/PMS 또는 서버 데이터가 아니다. 물리 휴대전화 실기기 검증은 이번 범위에 포함하지 않았다.
+> 2026-08-16~18 로컬 HTTP에서 인앱 브라우저와 설치된 Chrome의 터치 에뮬레이션으로 확인했다. 객실·예약·담당자·청소 상태는 기능 확인용 데모이며 실제 OTA/PMS 또는 서버 데이터가 아니다. 물리 휴대전화 실기기 검증은 이번 범위에 포함하지 않았다.
 
 | 항목 | 결과 | 실제 확인 내용 |
 |---|---|---|
-| 엑셀형 전체 객실표 | 통과 | 관리자 상단 `간편 예약`에서 전체 121개 객실을 세로, 2026년 8월 31일을 가로로 렌더했다. 객실 고정 열에 호수·타입·엘리베이터·청소 담당 상태, 날짜 고정 행에 일자·요일을 표시했다. |
+| 엑셀형 전체 객실표 | 통과 | 관리자 상단 `간편 예약`에서 전체 121개 객실을 세로, 2026년 8월 31일을 가로로 렌더했다. 객실 고정 열에는 호수·타입·엘리베이터, 날짜 고정 행에는 일자·요일을 표시했다. |
 | 별도 1박·한 건의 연박 | 통과 | 516호에서 `1박 / 1박 / 연박 3박 / 1박`이 네 예약 ID로 분리되고, 노란 1박 두 건과 이어진 파란 3박 한 건이 자동 병합되지 않음을 확인했다. |
 | 마우스 빠른 입력 | 통과 | 빈 352호의 8월 17일·18일을 각각 클릭하고 19일–21일을 한 번 드래그했다. 예약은 23→26건, 숙박 칸은 39→44박이 되었고 행에는 `1박 / 1박 / 연박 3박`, 객실 카드에는 `예약 3건`이 표시됐다. |
 | 카드 → 예약표 | 통과 | 454호 카드의 `예약 등록`에서 8월 15일 16:00–16일 11:00 한 건을 접수하자 카드가 `예약 1건`으로 바뀌고 간편 예약표 15일 칸이 즉시 `1박 예약`으로 전환됐다. |
 | 기존 예약·잠금 | 통과 | 예약 셀을 눌렀을 때 새 예약이 생기지 않고 해당 예약 ID의 상세·변경 모달이 열렸다. 762호는 모든 날짜가 `aria-disabled="true"`이고 `확인 필요 · 예약 불가` 이유와 자물쇠를 표시했다. |
-| 청소 담당 표시 | 통과 | 350호 예약의 행과 예약 셀 모두 `김민지1 · 통보 완료`를 표시했다. 새 예약은 담당자를 임의 선택하지 않고 `청소 미배정`과 `예약 후 청소 자동 연결` 상태를 표시했다. |
-| 다중 체크아웃·청소 재통보 | 통과 | 135호에 연속된 별도 1박 두 건을 만들자 각 퇴실일의 전날 배정 대상이 유지됐다. 기존 직접등록 대상과 합쳐진 352호 예약도 박소영 통보 상태를 카드·표에 역표시했고, 체크아웃 11:00→12:00 변경 뒤 `저장 전`·`변경 1건 저장·통보`로 전환됐다. |
+| 청소 담당 표시 제거 | 통과 | 간편 예약의 객실 열·예약 셀·월 요약에서 담당자·통보·청소 미배정 문구가 0건임을 확인했다. 잠긴 객실의 예약 불가 사유는 유지하고 담당 상태는 객실 기록과 청소 화면에서 확인했다. |
+| 엘리베이터 필터 제거 | 통과 | 간편 예약 필터는 객실번호 검색과 객실 유형만 표시했다. 예전 `bookingElevator=A` 주소도 숨은 필터 없이 121개 객실로 정상화되고 매개변수가 URL에서 제거됐다. 행의 `스탠다드 · C` 같은 엘리베이터 기준정보는 유지했다. |
+| 다중 체크아웃·청소 재통보 | 통과 | 135호에 연속된 별도 1박 두 건을 만들자 각 퇴실일의 전날 배정 대상이 유지됐다. 기존 직접등록 대상과 합쳐진 352호 예약도 청소 화면에서 박소영 통보 상태를 유지했고, 체크아웃 11:00→12:00 변경 뒤 `저장 전`·`변경 1건 저장·통보`로 전환됐다. |
 | 미래 예약과 현재 객실 상태 분리 | 통과 | 현재 `고객 배정 가능 · 청소 작업 없음`인 136호에 8월 30일 예약을 접수해도 현재 카드 상태는 그대로 유지하고 미래 퇴실 청소 초안만 연결했다. |
 | 짧은 터치 탭 | 통과 | 390px 터치 환경에서 빈 352호 날짜를 짧게 탭한 뒤 전체 예약 건수가 23건으로 유지됐다. 단순 탭은 새 예약을 접수하지 않았다. |
-| 모바일 초기 날짜 노출 | 통과 | 390px에서 날짜표 초기 `scrollLeft=720px`일 때 350호 8월 16일 셀은 x=193–243px, 고정 객실 정보 열의 오른쪽은 x=163px였다. 예약 셀 전체가 고정 열 밖에 노출돼 첫 탭으로 상세를 열 수 있었다. |
-| 세로 터치 스크롤 | 통과 | 121개 객실표의 빈 날짜 위에서 터치 스크롤하자 표 `scrollTop`이 0→260px로 이동하고 예약은 23건으로 유지됐다. 아래 객실을 넘기는 동작이 예약으로 바뀌지 않았다. |
-| 즉시 가로 스와이프 | 통과 | 390px 터치 환경에서 길게 누르기 전 352호의 빈 날짜를 110px 가로 스와이프하자 날짜표 `scrollLeft`가 720→815px로 이동하고 예약은 23→23건, 선택 미리보기 0건, 토스트 없음으로 유지됐다. |
+| 모바일 초기 날짜 노출 | 통과 | 초기 `scrollLeft=700px`, 객실 열 112px, 날짜 셀 50px로 360px에서는 8월 15–18일 4개, 390px에서는 15–19일 5개가 온전히 보였다. 첫 날짜가 고정 열 아래에 숨지 않았다. |
+| 세로 터치 스크롤 | 통과 | 호실 버튼 위에서 세로 스크롤해도 객실 상세·모달·예약 생성이 발생하지 않았고 날짜표 `scrollLeft=700px`도 유지됐다. 360/390px 모두 표 하단과 고정 하단 내비게이션 사이 23px 여유를 확인했다. |
+| 즉시 가로 스와이프 | 통과 | 390px에서 길게 누르지 않고 352호 빈 날짜 위를 160px 가로로 움직이자 날짜표 `scrollLeft`만 700→860px로 이동했다. 예약·선택 미리보기·대화상자·토스트는 모두 0건이었다. |
 | 길게 누른 뒤 가로 선택 | 통과 | 352호 19일을 0.43초 누른 뒤 21일까지 같은 행으로 이동하고 손을 떼자 예약이 23→24건으로 한 번만 늘고 `연박 3박`, `8/19 16:00 → 8/22 11:00`, 실행 취소 토스트가 표시됐다. |
 | 다른 객실 행 침범 | 통과 | 352호 빈 칸을 0.43초 길게 누른 뒤 350호 행으로 이동해 손을 떼자 예약은 23건으로 유지되고 선택 미리보기만 해제됐다. |
-| 키보드·보조기술·실행 취소 | 통과 | 빈 셀에서 `Shift + ArrowRight`, `Enter`로 2박 한 건을 만들고 `실행 취소`로 제거했다. `Shift + 위·아래`는 기존 범위를 해제했고, 합성 click 활성화는 한 건만 만들었으며, 실행 취소 뒤 포커스는 취소 예약의 첫 숙박 칸으로 돌아왔다. 마우스·터치 접수 토스트에도 10초 실행 취소를 제공했다. |
+| 키보드·보조기술·실행 취소 | 통과 | 호실 열은 한 버튼만 Tab 순서에 두고 위·아래·Home·End로 121개 객실을 이동했다. 선택일 8월 15일을 첫 `tabindex=0` 날짜 셀로 두어 8월 1일로 가로 위치가 튀지 않았다. 빈 셀에서 `Shift + ArrowRight`, `Enter`로 2박 한 건을 만들고 `실행 취소`로 제거했다. `Shift + 위·아래`는 기존 범위를 해제했고, 합성 click 활성화는 한 건만 만들었으며, 실행 취소 뒤 포커스는 취소 예약의 첫 숙박 칸으로 돌아왔다. |
 | 모달·포커스 | 통과 | 예약 셀의 상세 모달을 `Escape`로 닫자 같은 `quick-reservation-edit` 셀로 포커스가 돌아왔다. |
-| 뒤로가기 | 통과 | 간편 예약 검색 `350` → 객실 화면 → 브라우저 뒤로가기로 `간편 예약`, `bookingQ=350`과 검색값을 복원했고 앞으로가기로 객실 화면을 다시 복원했다. |
+| 객실 상세 연결·뒤로가기 | 통과 | `350호 객실 상세 열기`를 누르면 기존 350호 객실 상세로 이동했다. 브라우저 뒤로가기 후 날짜표 `scrollLeft=700px`·내부 세로 위치와 350호 버튼 포커스를 복원했고, 검색 `bookingQ=350`도 유지했다. |
 | 역할 권한 | 통과 | 메이드 역할에서 `간편 예약` 내비게이션 0개, 예약 그리드 0개였고 `내 업무`만 표시됐다. |
-| 360·390·768·1440px | 통과 | 네 너비 모두 문서 가로 넘침 0px이고 날짜만 그리드 내부에서 스크롤됐다. 360/390px 셀은 50×58px, 하단 6개 탭은 각각 최소 58×63px였으며 768px 셀은 56×58px, 1440px 셀은 58×58px였다. |
+| 360·390·768·1440px | 통과 | 네 너비 모두 문서 가로 넘침 0px이고 날짜만 그리드 내부에서 스크롤됐다. 360/390px 객실 열은 112px, 호실 버튼은 111×58px, 날짜 셀은 50×58px였다. 768px은 객실/날짜 170/56px, 1440px은 200/58px였으며 접근성 이름 없는 버튼은 0개였다. |
 | 콘솔·정적 구문 | 통과 | 인앱 브라우저와 Chrome 데스크톱·모바일 warning/error 0건, 단일 인라인 스크립트 `new Function` 구문 분석 통과를 확인했다. |
 | 대표 PNG | 통과 | `admin-quick-booking-1440.png` 1440×1000과 `admin-quick-booking-390.png` 390×844를 실제 PNG로 저장하고 시각 확인했다. |
 
@@ -458,7 +459,7 @@
 | 항목 | 결과 | 실제 확인 내용 |
 |---|---|---|
 | 시스템 설명 제거 | 통과 | `저장 즉시 양방향 반영`, `카드와 간편 예약표에 동시에 반영됩니다.`, `카드·예약표 공통 원장`, `같은 예약 ID`, `예약 식별`, `내부 수동 예약 원장`이 관련 화면 DOM에 없음을 확인했다. |
-| 카드·예약표 문구 | 통과 | 빈 454호 카드는 `예약 없음 · 바로 등록 / 체크인·체크아웃을 입력하세요.`로 표시했다. 간편 예약표는 `빠른 예약 입력`, `퇴실 청소 담당`, `각 드래그 1건`만 보여 주고 0.35초 터치·세로 스크롤 취소·10초 실행 취소 안내는 유지했다. |
+| 카드·예약표 문구 | 통과 | 빈 454호 카드는 `예약 없음 · 바로 등록 / 체크인·체크아웃을 입력하세요.`로 표시했다. 간편 예약표는 예약 구간·예약 불가 사유와 `각 드래그 1건`만 보여 주고 퇴실 청소 담당과 엘리베이터 분류 필터는 표시하지 않았다. 0.35초 터치·세로 스크롤 취소·10초 실행 취소 안내는 유지했다. |
 | 예약 상세·수정 | 통과 | 신규·기존 예약 모달에서 객실, 체크인, 체크아웃, 박수, 얼리·레이트 상태, 퇴실 청소 담당과 수정·취소 행동을 유지했다. 내부 식별값과 자동 반영 설명은 표시하지 않았다. |
 | 취소 영향·기타 사유 | 통과 | 350호 취소 확인창에서 대상·예약 일정·퇴실 청소 준비·담당 영향·인접 예약 마감·외부 OTA/PMS 별도 확인을 유지했다. `기타` 선택 시 서술형 입력이 열리고 빈 값에서는 확정 비활성, 유효한 운영 사유에서는 활성화됐다. |
 | 카드→예약표 상태 | 통과 | 빈 454호에서 1박 예약을 저장하자 결과 토스트는 `454호 1박 예약을 저장했습니다.`만 표시했고, 카드의 예약 버튼과 간편 예약표 454호 행의 1박 블록에서 같은 일정을 확인했다. |
